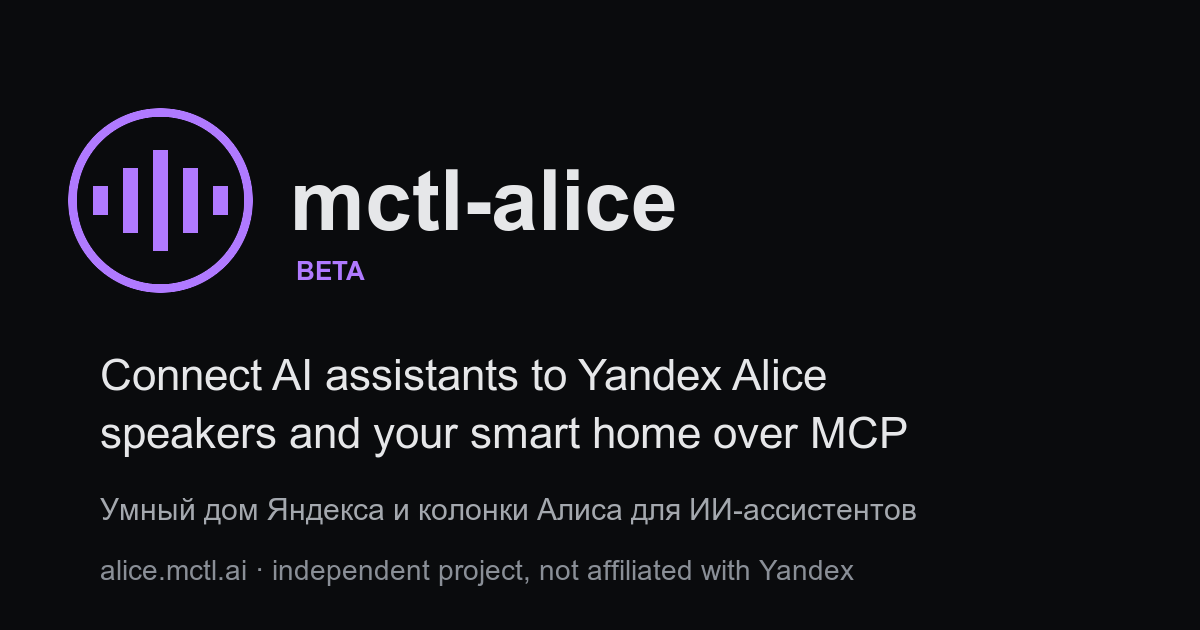
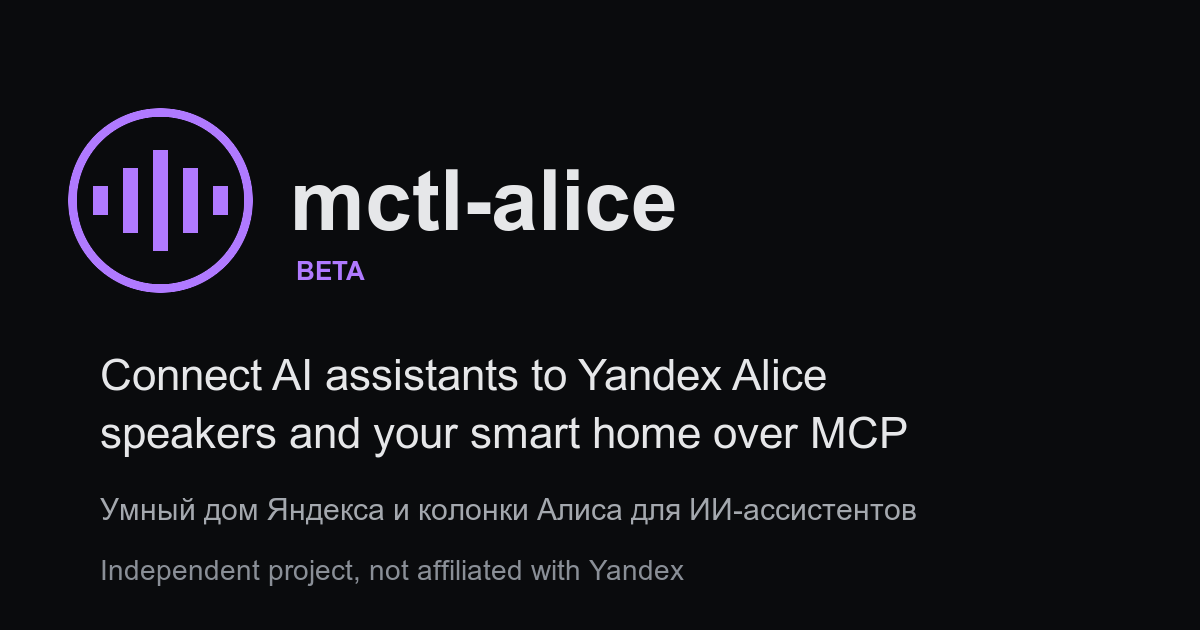
fix(site): address review on canonical origin, HEAD and test coverage
Without PUBLIC_BASE_URL the server fell back to http://localhost:<port>
for canonical, og:url and the robots Sitemap line, which would de-index a
self-hosted page behind a proxy; those are now omitted (and /sitemap.xml
404s) unless an origin is configured. og:image is concatenated from the
origin instead of new URL(), which threw a 500 for a scheme-less origin
and dropped a path prefix.

HEAD on an unknown page now gets the plain JSON 404 instead of a bodiless
HTML one, since page routes answer only GET. /setup and the HTML 404 join
the page-hardening gate (CSP, no inline code, defined s-* classes, assets);
the link check rejects any status >= 400; private pages are asserted to be
noindex without a canonical. Also: /setup snippets follow the browser
origin like the copy button, fonts are cached for a week, light-theme hover
uses the deeper lilac again, and the og:image no longer names the hosted
domain.

Claude-Session: https://claude.ai/code/session_01CfGyap4xWWSX6z15NQs6kr

Changed region(s): [[0.0925, 0.8746, 0.7092, 0.9349]]

diff --git a/src/server/http-server.ts b/src/server/http-server.ts
@@ -75,10 +75,15 @@ const STATIC_MIME_TYPES: Record<string, string> = {
 /**
  * Static HTML names its asset suffix `?v=__VERSION__` and its absolute URLs
  * (canonical, og:url, og:image) `__BASE_URL__`, both filled in at serve time
- * so a self-hosted instance does not point crawlers at alice.mctl.ai.
+ * so a self-hosted instance does not point crawlers at alice.mctl.ai. Without
+ * a configured public origin the lines naming `__BASE_URL__` are dropped:
+ * a canonical guessed as localhost would de-index the page.
  */
 function withAssetVersion(html: string, siteUrl = ""): string {
-  return html.replaceAll("?v=__VERSION__", `?v=${VERSION}`).replaceAll("__BASE_URL__", escapeHtml(siteUrl));
+  const versioned = html.replaceAll("?v=__VERSION__", `?v=${VERSION}`);
+  return siteUrl
+    ? versioned.replaceAll("__BASE_URL__", escapeHtml(siteUrl))
+    : versioned.replace(/^.*__BASE_URL__.*\n/gm, "");
 }
 
 function serveStaticFile(
@@ -130,9 +135,12 @@ function serveStaticFile(
     const contentType = STATIC_MIME_TYPES[ext] || fallbackContentType;
     const content = ext === ".html" ? withAssetVersion(fs.readFileSync(filePath, "utf8"), siteUrl) : fs.readFileSync(filePath);
 
+    // Font files never change in place (a new font gets a new file name), so
+    // they are cached for a week instead of revalidated every minute.
+    const isFont = ext === ".woff2";
     res.writeHead(200, {
       "Content-Type": contentType,
-      "Cache-Control": "public, max-age=60, stale-while-revalidate=300",
+      "Cache-Control": isFont ? "public, max-age=604800" : "public, max-age=60, stale-while-revalidate=300",
     });
     res.end(content);
     return true;
@@ -155,22 +163,23 @@ function renderAuthPage({
   titleKey,
   contentHtml,
   scriptHtml = "",
-  canonicalUrl,
+  canonical,
 }: {
   title: string;
   titleKey?: string;
   contentHtml: string;
   scriptHtml?: string;
   /** Public pages pass their absolute URL; pages without one are not indexed. */
-  canonicalUrl?: string;
+  canonical?: { siteUrl: string; path: string };
 }): string {
-  const indexing = canonicalUrl
+  const canonicalUrl = canonical ? canonical.siteUrl + canonical.path : "";
+  const indexing = canonical
     ? `<link rel="canonical" href="${escapeHtml(canonicalUrl)}">
 <meta property="og:type" content="website">
 <meta property="og:site_name" content="mctl-alice">
 <meta property="og:title" content="${escapeHtml(title)}">
 <meta property="og:url" content="${escapeHtml(canonicalUrl)}">
-<meta property="og:image" content="${escapeHtml(new URL("/og-image.png", canonicalUrl).href)}">
+<meta property="og:image" content="${escapeHtml(canonical.siteUrl + "/og-image.png")}">
 <meta property="og:image:width" content="1200">
 <meta property="og:image:height" content="630">
 <meta name="twitter:card" content="summary_large_image">`
@@ -328,7 +337,7 @@ const MACHINE_PATHS = /^\/(?:mcp|sse|messages|api|oauth|\.well-known|openapi)(?:
 
 /** Whether an unmatched request should get the HTML 404 page instead of JSON. */
 export function wantsHtmlNotFound(req: http.IncomingMessage, pathname: string): boolean {
-  if (req.method !== "GET" && req.method !== "HEAD") return false;
+  if (req.method !== "GET") return false;
   if (MACHINE_PATHS.test(pathname)) return false;
   return String(req.headers.accept || "").includes("text/html");
 }
@@ -544,6 +553,10 @@ export function createHttpServer(
     options.authRequired ?? (process.env.AUTH_REQUIRED === "true");
   const baseUrl = options.publicBaseUrl || process.env.PUBLIC_BASE_URL || `http://localhost:${port}`;
   const siteUrl = baseUrl.replace(/\/+$/, "");
+  // Canonical URLs, og:* and the sitemap need the real public origin; the
+  // localhost fallback above is not one.
+  const publicSiteUrl = options.publicBaseUrl || process.env.PUBLIC_BASE_URL ? siteUrl : "";
+  const canonicalFor = (pagePath: string) => (publicSiteUrl ? { siteUrl: publicSiteUrl, path: pagePath } : undefined);
   const clientId =
     options.clientId ||
     process.env.YANDEX_CLIENT_ID ||
@@ -833,13 +846,13 @@ export function createHttpServer(
     // the configured public origin rather than shipped as static files.
     if (url.pathname === "/robots.txt" && req.method === "GET") {
       res.writeHead(200, { "Content-Type": "text/plain; charset=utf-8", "Cache-Control": "public, max-age=3600" });
-      res.end(renderRobotsTxt(siteUrl));
+      res.end(renderRobotsTxt(publicSiteUrl));
       return;
     }
 
-    if (url.pathname === "/sitemap.xml" && req.method === "GET") {
+    if (url.pathname === "/sitemap.xml" && req.method === "GET" && publicSiteUrl) {
       res.writeHead(200, { "Content-Type": "application/xml; charset=utf-8", "Cache-Control": "public, max-age=3600" });
-      res.end(renderSitemapXml(siteUrl));
+      res.end(renderSitemapXml(publicSiteUrl));
       return;
     }
 
@@ -1522,7 +1535,7 @@ export function createHttpServer(
           title: "mctl-alice — Подключение ассистента",
           titleKey: "setup_page_title",
           contentHtml: renderSetupPage(siteUrl),
-          canonicalUrl: `${siteUrl}/setup`,
+          canonical: canonicalFor("/setup"),
         })
       );
       return;
@@ -1535,7 +1548,7 @@ export function createHttpServer(
           title: "mctl-alice — О сервисе",
           titleKey: "about_title",
           contentHtml: renderAboutPage(baseUrl),
-          canonicalUrl: `${siteUrl}/about`,
+          canonical: canonicalFor("/about"),
         })
       );
       return;
@@ -1548,7 +1561,7 @@ export function createHttpServer(
           title: "mctl-alice — Политика конфиденциальности",
           titleKey: "privacy_title",
           contentHtml: renderPrivacyPage(baseUrl),
-          canonicalUrl: `${siteUrl}/privacy`,
+          canonical: canonicalFor("/privacy"),
         })
       );
       return;
@@ -1561,7 +1574,7 @@ export function createHttpServer(
           title: "mctl-alice — Условия использования",
           titleKey: "terms_title",
           contentHtml: renderTermsPage(baseUrl),
-          canonicalUrl: `${siteUrl}/terms`,
+          canonical: canonicalFor("/terms"),
         })
       );
       return;
@@ -1574,7 +1587,7 @@ export function createHttpServer(
           title: "mctl-alice — Безопасность",
           titleKey: "security_title",
           contentHtml: renderSecurityPage(baseUrl),
-          canonicalUrl: `${siteUrl}/security`,
+          canonical: canonicalFor("/security"),
         })
       );
       return;
@@ -2166,7 +2179,7 @@ export function createHttpServer(
       const accept = req.headers.accept || "";
       const prefersJson = accept.includes("application/json") && !accept.includes("text/html");
       if (!prefersJson) {
-        const served = serveStaticFile("index.html", res, undefined, siteUrl);
+        const served = serveStaticFile("index.html", res, undefined, publicSiteUrl);
         if (served) return;
       }
     }

diff --git a/tests/site-basics.test.ts b/tests/site-basics.test.ts
@@ -44,6 +44,20 @@ describe("Public site basics: /setup, 404 page, sitemap, fonts, social preview",
     expect(body).toContain(`<link rel="canonical" href="${PUBLIC_ORIGIN}/setup">`);
     expect(body).toContain(`<meta property="og:image" content="${PUBLIC_ORIGIN}/og-image.png">`);
     expect(body).not.toContain('name="robots"');
+    // The snippets follow the host the page is opened on, like the copy button.
+    expect(body).toContain(`alice <span class="mcp-url-slot">${PUBLIC_ORIGIN}/mcp</span>`);
+  });
+
+  it("keeps private pages out of search results", async () => {
+    for (const page of ["/account", "/auth/login", "/auth/cookie", "/auth/callback"]) {
+      const res = await fetch(base + page, { headers: html, redirect: "manual" });
+      if (res.status !== 200) continue;
+      const body = await res.text();
+      expect(body, page).toContain('<meta name="robots" content="noindex">');
+      expect(body, page).not.toContain('rel="canonical"');
+    }
+    const account = await (await fetch(base + "/account", { headers: html })).text();
+    expect(account).toContain('<meta name="robots" content="noindex">');
   });
 
   it("links every internal page from the public pages to something that exists", async () => {
@@ -55,7 +69,7 @@ describe("Public site basics: /setup, 404 page, sitemap, fonts, social preview",
     expect(seen).toContain("/setup");
     for (const href of seen) {
       const res = await fetch(base + href, { headers: html, redirect: "manual" });
-      expect(res.status, href).not.toBe(404);
+      expect(res.status, href).toBeLessThan(400);
     }
   });
 
@@ -72,6 +86,7 @@ describe("Public site basics: /setup, 404 page, sitemap, fonts, social preview",
 
   it("keeps JSON 404s for API, MCP and OAuth clients", async () => {
     const cases: Array<[string, RequestInit]> = [
+      ["/no-such-page", { method: "HEAD", headers: html }],
       ["/no-such-page", { headers: { Accept: "application/json" } }],
       ["/no-such-page", {}],
       ["/no-such-page", { method: "POST", headers: html }],
@@ -86,7 +101,7 @@ describe("Public site basics: /setup, 404 page, sitemap, fonts, social preview",
       const label = `${init.method || "GET"} ${p} ${JSON.stringify(init.headers || {})}`;
       expect(res.status, label).toBe(404);
       expect(res.headers.get("content-type"), label).toContain("application/json");
-      expect(await res.json(), label).toEqual({ error: "not_found", message: "Route not found" });
+      if (init.method !== "HEAD") expect(await res.json(), label).toEqual({ error: "not_found", message: "Route not found" });
     }
   });
 
@@ -142,10 +157,51 @@ describe("Public site basics: /setup, 404 page, sitemap, fonts, social preview",
     }
   });
 
+  it("sends long cache headers for the font files", async () => {
+    const res = await fetch(base + "/assets/fonts/onest-latin-wght-normal.woff2");
+    expect(res.headers.get("cache-control")).toBe("public, max-age=604800");
+  });
+
   it("does not describe the Yandex refresh token as permanent", () => {
     for (const file of ["public/assets/site.js", "src/server/http-server.ts", "src/auth/oauth-helper.ts", "src/auth/cli.ts"]) {
       const text = fs.readFileSync(path.join(rootDir, file), "utf8");
       expect(text, file).not.toMatch(/permanent refresh|постоянн\S* refresh/i);
     }
+  });
+});
+
+describe("Public site without a configured public origin", () => {
+  let server: http.Server;
+  let storage: OAuthStorage;
+  let history: TelemetryStorage;
+  let base: string;
+  const saved = process.env.PUBLIC_BASE_URL;
+
+  beforeAll(async () => {
+    delete process.env.PUBLIC_BASE_URL;
+    storage = new OAuthStorage(":memory:");
+    history = new TelemetryStorage(":memory:");
+    server = createHttpServer(0, { authRequired: false, oauthStorage: storage, storage: history, enableSampler: false });
+    await new Promise<void>(resolve => server.listen(0, "127.0.0.1", resolve));
+    base = `http://127.0.0.1:${(server.address() as import("node:net").AddressInfo).port}`;
+  });
+
+  afterAll(async () => {
+    if (saved !== undefined) process.env.PUBLIC_BASE_URL = saved;
+    await new Promise<void>(resolve => server.close(() => resolve()));
+    storage.close();
+    history.close();
+  });
+
+  it("does not claim a localhost canonical, og:url or sitemap", async () => {
+    for (const page of ["/", "/setup", "/about"]) {
+      const body = await (await fetch(base + page, { headers: { Accept: "text/html" } })).text();
+      expect(body, page).not.toContain('rel="canonical"');
+      expect(body, page).not.toContain("og:url");
+      expect(body, page).not.toContain("__BASE_URL__");
+      expect(body, page).not.toContain("og:image\" content=\"http");
+    }
+    expect(await (await fetch(base + "/robots.txt")).text()).not.toContain("Sitemap:");
+    expect((await fetch(base + "/sitemap.xml")).status).toBe(404);
   });
 });

diff --git a/src/server/pages.ts b/src/server/pages.ts
@@ -167,6 +167,7 @@ export function renderSecurityPage(baseUrl: string): string {
 /** Pages listed in the sitemap; everything else is either private or not a page. */
 export const PUBLIC_PAGE_PATHS = ["/", "/setup", "/about", "/privacy", "/terms", "/security"];
 
+/** `siteUrl` is empty when no public origin is configured: no Sitemap line then. */
 export function renderRobotsTxt(siteUrl: string): string {
   return [
     "User-agent: *",
@@ -174,8 +175,7 @@ export function renderRobotsTxt(siteUrl: string): string {
     "Disallow: /oauth/",
     "Disallow: /account",
     "Allow: /",
-    "",
-    `Sitemap: ${siteUrl}/sitemap.xml`,
+    ...(siteUrl ? ["", `Sitemap: ${siteUrl}/sitemap.xml`] : []),
     "",
   ].join("\n");
 }
@@ -232,10 +232,10 @@ export function renderSetupPage(siteUrl: string): string {
       <section class="s-8f4f37" aria-labelledby="setup-other">
         <h2 class="section-title s-96cfba" id="setup-other" data-i18n="setup_other_title">Другие MCP-клиенты</h2>
         <p class="s-2a0ca8" data-i18n="setup_other_desc">Подойдёт любой клиент, который подключает удалённые MCP-серверы с авторизацией OAuth 2.1, например Claude Code или Cursor. Мы их сами не проверяли, поэтому напишите нам, если что-то не работает.</p>
-        <pre><code>claude mcp add --transport http alice ${mcpUrl}</code></pre>
+        <pre><code>claude mcp add --transport http alice <span class="mcp-url-slot">${mcpUrl}</span></code></pre>
         <pre><code>{
   "mcpServers": {
-    "alice": { "url": "${mcpUrl}" }
+    "alice": { "url": "<span class="mcp-url-slot">${mcpUrl}</span>" }
   }
 }</code></pre>
       </section>

diff --git a/tests/page-hardening.test.ts b/tests/page-hardening.test.ts
@@ -31,12 +31,16 @@ describe("CSP, CORS and HTML hardening", () => {
       client_id, redirect_uri: "https://claude.ai/api/mcp/auth_callback", response_type: "code", state: "s",
       code_challenge: "E9Melhoa2OwvFrEMTJguCHaoeK1t8URWbuGJSstw-cM", code_challenge_method: "S256",
     });
-    for (const page of ["/", "/about", "/privacy", "/terms", "/security", "/account", "/auth/cookie", "/auth/callback", consent]) {
+    for (const page of ["/", "/setup", "/about", "/privacy", "/terms", "/security", "/account", "/auth/cookie", "/auth/callback", consent]) {
       const res = await fetch(base + page, { headers: { Accept: "text/html" } });
       expect(res.status, page).toBe(200);
       expect(res.headers.get("content-type"), page).toContain("text/html");
       htmlPages.set(page.startsWith("/oauth/authorize") ? "consent" : page, { headers: res.headers, body: await res.text() });
     }
+    const notFound = await fetch(base + "/no-such-page", { headers: { Accept: "text/html" } });
+    expect(notFound.status).toBe(404);
+    expect(notFound.headers.get("content-type")).toContain("text/html");
+    htmlPages.set("404", { headers: notFound.headers, body: await notFound.text() });
 
     const now = Date.now();
     storage.saveUser({ id: "alice", yandexUid: "alice", createdAt: now, updatedAt: now });
@@ -57,7 +61,7 @@ describe("CSP, CORS and HTML hardening", () => {
   });
 
   it("sends a CSP without unsafe-inline and frame protection on every HTML page", () => {
-    expect(htmlPages.size).toBe(10);
+    expect(htmlPages.size).toBe(12);
     for (const [page, { headers }] of htmlPages) {
       const csp = headers.get("content-security-policy") || "";
       expect(csp, page).toContain("script-src 'self';");

diff --git a/public/assets/components.css b/public/assets/components.css
@@ -17,13 +17,13 @@
 :root[data-theme="light"] {
   --surface-fg-subtle: #5c6169;
   --accent: var(--mctl-color-lilac-deep);
-  --accent-highlight: var(--mctl-color-lilac-deep);
+  --accent-highlight: var(--mctl-color-lilac-deeper);
 }
 @media (prefers-color-scheme: light) {
   :root:not([data-theme="dark"]) {
     --surface-fg-subtle: #5c6169;
     --accent: var(--mctl-color-lilac-deep);
-    --accent-highlight: var(--mctl-color-lilac-deep);
+    --accent-highlight: var(--mctl-color-lilac-deeper);
   }
 }
 
